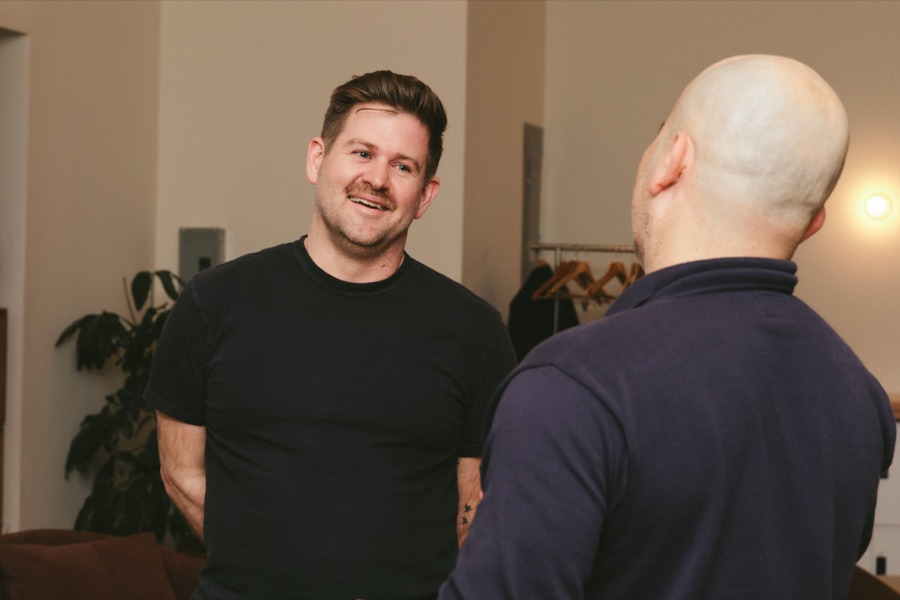
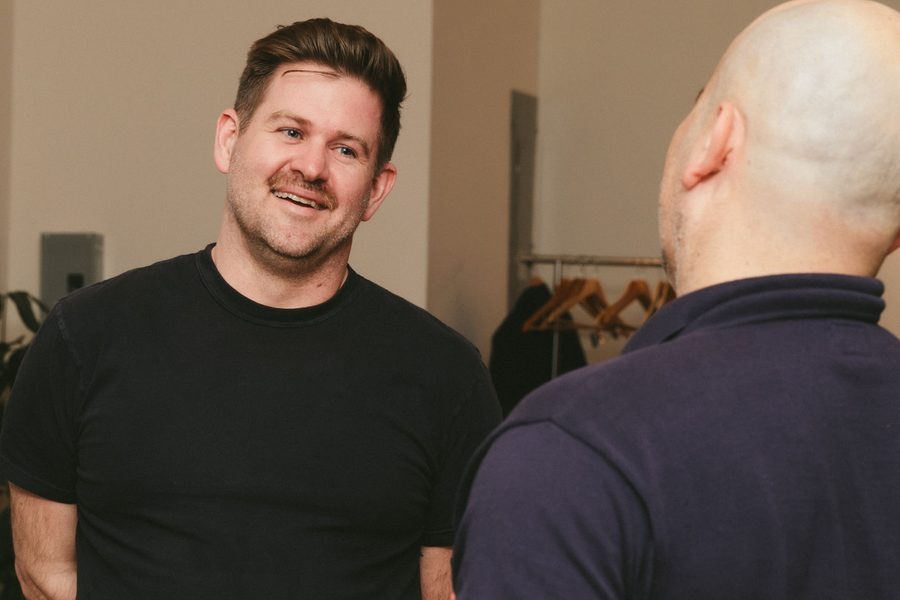
Use conversation photo on homepage, cropped tighter on Sam
Swaps the intro portrait to the in-conversation shot, re-cropped from
the full-res original to reduce negative space and trim the foreground
figure to an over-the-shoulder presence.

diff --git a/index.html b/index.html
@@ -203,7 +203,7 @@
                     <p>Deliberate Works is that experience, concentrated. No leverage model, no junior team learning on your dime, no deck factory. You work with me.</p>
                 </div>
                 <figure class="portrait">
-                    <img loading="lazy" src="images/sam-spurlin-web.jpg" alt="Sam Spurlin" width="899" height="900">
+                    <img loading="lazy" src="images/sam-web.jpg" alt="Sam Spurlin in conversation" width="900" height="600">
                     <figcaption class="mono-note">Sam Spurlin, founder</figcaption>
                 </figure>
             </div>
